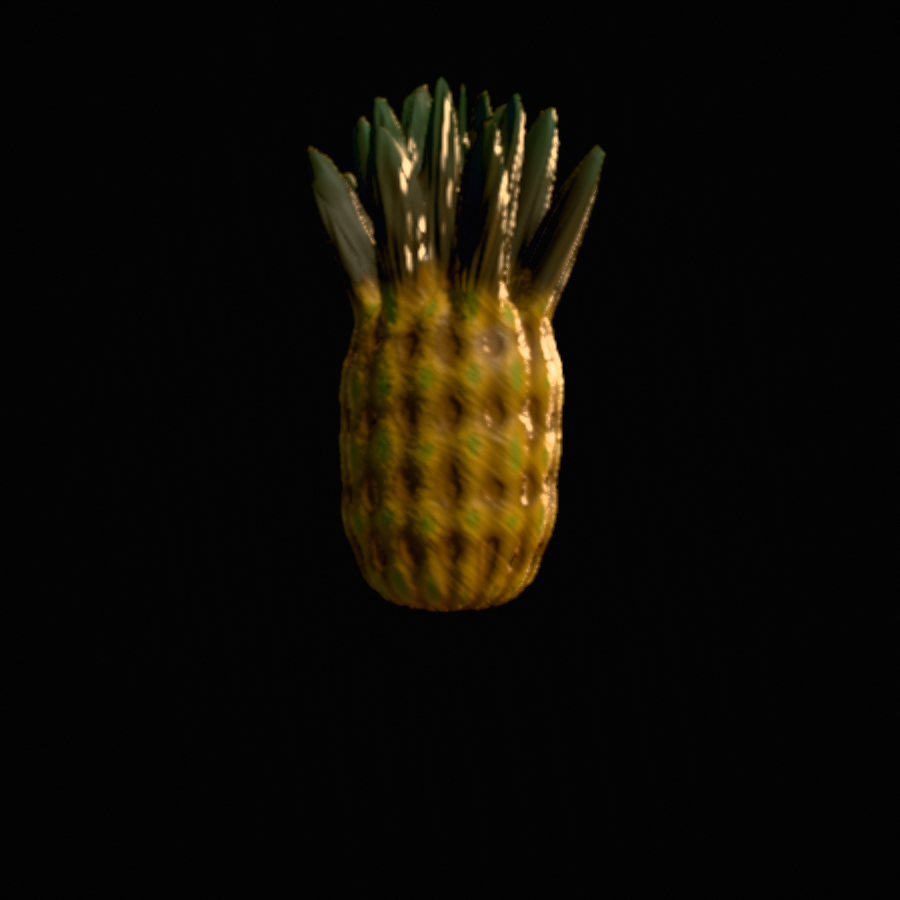
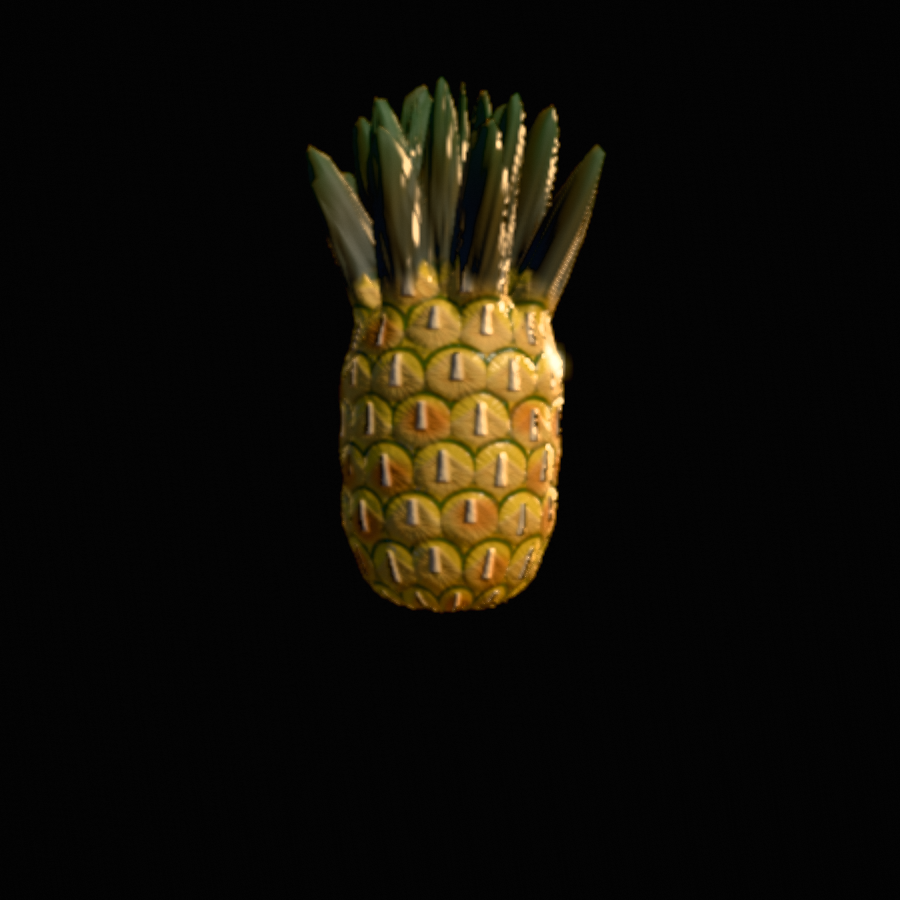
r47: the pineapple shell, rebuilt from the reference through a render-and-measure loop (#42)
The player asked for better pineapple fidelity with a reference photo.
Fifteen rounds (r47 → r47o), each a batch of three candidates rendered
through the new `tools/pineloop.mjs` (runtime uniforms, no rebuild) and
judged beside the reference at fruit and detail scale, with
`tools/pngstats.py` for hue/saturation/value.

**Where it landed.** Each fruitlet is an eye — a rounded disc with a
tight dark green ring, radial striations, and a green-to-gold gradient
to its centre — under a tan bract sheath rising to a pale dried thorn.
The row below's eyes are evaluated in the shader so they rise into each
cell's corners like scales; rows run on a parastichy spiral; per-cell
rust stains grow denser toward the base. Crown leaves get a per-material
tint, calmer ribs and a waxy bloom at the root.

**Two structural findings worth reading:**
- Rings must be composited *above* both eye interiors (r47k) —
overlapping eyes otherwise erase them, leaving green only in the gaps.
- The albedo ceiling (`capBudget`'s per-channel Reinhard shoulder)
compresses R harder than G, so every brighter gold came out *greener*
(r47o). The pineapple runs `capK: 1.12` and its colours are authored by
inverting the shoulder.

Shell measures hue 40.6° (reference 43°). Every other species is
untouched. drawprobe and fruitviews clean; pineapple corpus shots
refreshed; GRAPHICS.md updated.

Changed region(s): [[0.3422, 0.0933, 0.6533, 0.6844], [0.6222, 0.2489, 0.6533, 0.3111], [0.3422, 0.1556, 0.3733, 0.1867]]

diff --git a/src/fruit/species.js b/src/fruit/species.js
@@ -2192,13 +2192,21 @@ function skinMaterial(sp, body, o = {}) {
 
   m.colorNode = Fn(() => {
     const f = frame();
-    const alb = capBudget(body.albedo(f, u)).toVar();
+    // r47o `o.capK`: a per-material ceiling factor (skins have no floor, so
+    // 1 is the contract; the pineapple runs 1.12 — its yellow is the point of
+    // the fruit, and the cap squeezed R harder than G, turning every brighter
+    // gold GREENER instead of brighter)
+    const alb = capBudget(body.albedo(f, u), o.capK).toVar();
     const a = appendage();
     // per-blade value spread. `lon` is the across-blade coordinate (blades are
     // radial about +Y, so a blade occupies a narrow arc of longitude); the
     // second argument drifts with height so one blade is not a constant stripe.
     // ringN is angle-periodic, so there is no seam at +-PI on the crown either.
     const vary = ringN(f.lon, 11.0, a.y.mul(2.2)).toVar();
+    // r47c `o.leafTint`: a per-material multiplier on the foliage colour —
+    // the pineapple crown on the reference is a brighter, greyer green than
+    // plate-01's, and its blades are broad enough to want it
+    const tintV = o.leafTint ? vec3(o.leafTint[0], o.leafTint[1], o.leafTint[2]) : vec3(1.0, 1.0, 1.0);
     const leafC = (o.leafFresh
       // fresh: green from the root, no die-back straw at the tip
       ? mix(A_ROOT, A_FOLF, ss(1.030, 1.200, a.y)).mul(vary.mul(0.20).add(1.0))
@@ -2209,7 +2217,12 @@ function skinMaterial(sp, body, o = {}) {
     const woodC = mix(A_WUD, A_WTIP, a.sh.mul(a.sh))
       .mul(ringN(f.lon, 17.0, a.y.mul(9.0)).mul(0.22).add(1.0))
       .toVar();
-    alb.assign(mix(alb, leafC, a.leafy));
+    // r47e `o.leafBloom`: a waxy grey-white bloom over the lower blade, as
+    // on a pineapple crown's rosette — strongest at the root, gone by mid-blade
+    const bloomed = o.leafBloom
+      ? mix(leafC.mul(tintV), fromKeyLit(0.1100, 0.1250, 0.1050), ss(0.55, 0.05, a.bh).mul(o.leafBloom))
+      : leafC.mul(tintV);
+    alb.assign(mix(alb, bloomed, a.leafy));
     alb.assign(mix(alb, woodC, a.wood));
     return alb;
   })();
@@ -2230,7 +2243,7 @@ function skinMaterial(sp, body, o = {}) {
     // the appendage, which is the direction real leaf veins and wood fibre run.
     const app = max(a.leafy, a.wood).toVar();
     const rib = mix(ringN(f.lon, 26.0, a.y.mul(5.0)), ringN(f.lon, 15.0, a.y.mul(11.0)), a.wood);
-    const h = mix(body.relief(f, u), rib.mul(1.35).sub(a.bh.mul(0.30)), app);
+    const h = mix(body.relief(f, u), rib.mul(1.35 * (o.rib ?? 1.0)).sub(a.bh.mul(0.30)), app);
     return zsBump(normalView, positionView, h.mul(u.bump));
   })();
   // A leaf and a dead stem have no fruit wax on them. Every skin that carries a
@@ -3851,6 +3864,49 @@ def({
 });
 
 // ─────────────────────────────────────────────────────────────────────────────
+// r47o: the gold/eye colours are authored PRE-cap. capBudget's Reinhard
+// shoulder (k = 1.12 for this skin) compresses R far more than G, so a gold
+// written as (0.66, 0.335, 0.07) leaves the cap as (0.43, 0.335, 0.07) —
+// a golden yellow — where the same post-cap target authored naively came out
+// green. Invert the shoulder (see r47o) before changing these by eye.
+// r47c: the pineapple shell's tunables. Uniforms, so a tuning loop can set
+// them at runtime (window.__zsPine.set(name, value) in the harness) and the
+// shipped defaults below are what that loop settled on. Colours are linear.
+const PINE_DEFAULTS = {
+  rustMix: 0.850, rustBottom: 0.620, rustTop: 0.080, rustR: 0.600,
+  rustC: [0.2800, 0.1000, 0.0300], rimEdge: 0.500, rows: 2.600, skew: 0.420, sheathVein: 0.200,
+  blemMix: 0.080, sheathV: 0.600, creaseMix: 0.150, creaseH: 0.200, roughThorn: 0.450,
+  creaseW: 0.360, eyeY: 0.040, eyeR: 0.600, eyeAspect: 0.900, tipY: 0.440, bractW: 0.600,
+  bractCurve: 0.850, spread: 0.300, grain: 0.080, veinMix: 0.060, eyeMix: 0.950, eyeGrad: 1.000,
+  eyePow: 1.100, rimMix: 1.000, rimLow: -0.450, rimW: 0.131, bractMix: 0.600, bractOverEye: 0.700,
+  soft: 3.000, jit: 0.800, lipMix: 0.100, lipH: 0.150, roughGold: 0.340, roughEye: 0.360,
+  roughBract: 0.450, eyeH: 0.800, bractH: 0.250, thornH: 2.200, thornW: 0.050, thornLen: 0.678,
+  gold: [0.6600, 0.3350, 0.0700], goldGreen: [0.4000, 0.3300, 0.0800],
+  vein: [0.2400, 0.1400, 0.0500], eyeGreen: [0.3000, 0.3000, 0.0700],
+  eyeYellow: [1.1600, 0.3600, 0.0800], rim: [0.0393, 0.0751, 0.0113],
+  tan: [0.4600, 0.3200, 0.1500], thorn: [0.5600, 0.3800, 0.3000],
+  creaseC: [0.0500, 0.0650, 0.0180],
+};
+// fruitlets around the barrel — a JS constant (cellPt's wrap), not a uniform
+const PINE_AROUND = 12;
+let _pine = null;
+function pineTune() {
+  if (_pine) return _pine;
+  const u = {};
+  for (const [k, v] of Object.entries(PINE_DEFAULTS)) {
+    u[k] = Array.isArray(v) ? uniform(new THREE.Vector3(v[0], v[1], v[2])) : uniform(v);
+  }
+  _pine = u;
+  if (typeof window !== 'undefined') {
+    window.__zsPine = {
+      set(k, v) { const x = u[k]; if (!x) return false; if (Array.isArray(v)) x.value.set(v[0], v[1], v[2]); else x.value = v; return true; },
+      get: () => Object.fromEntries(Object.entries(u).map(([k, x]) => [k, x.value.isVector3 ? [x.value.x, x.value.y, x.value.z] : x.value])),
+      defaults: PINE_DEFAULTS,
+    };
+  }
+  return u;
+}
+
 // PINEAPPLE — hexagonal eyes on the shell, fibrous rayed flesh, hard pale core.
 // ─────────────────────────────────────────────────────────────────────────────
 
@@ -3869,41 +3925,159 @@ def({
   shape: { squash: 1.35, lumps: 0.045, freq: 6.5 },
 
   makeSkinMaterial() {
+    // r47c — THE FRUITLET, READ OFF THE REFERENCE AT FULL ZOOM. Two passes
+    // (hex plates, then soft cushions) both read as "warty" on the device,
+    // because both drew the fruitlet as a BUMP. It is not a bump. In the
+    // photo each cell is:
+    //   · a broad TAN PAPERY BRACT SHEATH covering the lower half of the cell,
+    //     spanning its full width, rising to a sharp pale thorn above the
+    //     centre — dry, fibrous, faintly veined;
+    //   · behind it the EYE: a green-yellow rounded fruitlet with fine radial
+    //     striations and a dark green rim along its upper edge, of which only
+    //     the upper crescent and shoulders show above the sheath;
+    //   · GOLD everywhere else. The whole shell is gold (reference hue median
+    //     43°, sat 0.67); green lives only in the eyes.
+    // Every colour and shape below is a UNIFORM (PINE), so tools/pineloop
+    // renders candidates without a rebuild; the defaults are the shipped
+    // values, baked from that loop.
+    const PINE = pineTune();
+    // one fruitlet's eye, from an offset (ox, oy) to that fruitlet's centre
+    const fruitlet = (ox, oy) => {
+      const ey = oy.sub(PINE.eyeY);
+      const ed = length(vec2(ox, ey.mul(PINE.eyeAspect))).toVar();
+      const eye = ss(PINE.eyeR, PINE.eyeR.sub(PINE.soft.mul(0.10)), ed).toVar();
+      // the ring's edges: `rimEdge` scales their softness (1 = the r47c widths)
+      const rim = ss(PINE.eyeR.add(PINE.rimEdge.mul(0.06)), PINE.eyeR.sub(PINE.rimEdge.mul(0.04)), ed)
+        .mul(ss(PINE.eyeR.sub(PINE.rimW), PINE.eyeR.sub(PINE.rimW).add(PINE.rimEdge.mul(0.10)), ed))
+        .mul(ss(PINE.rimLow, PINE.rimLow.add(0.22), ey)).toVar();   // fades out toward the sheath
+      const ang = atan(ey, ox);
+      const stria = sin(ang.mul(22.0)).mul(0.5).add(0.5).mul(ss(0.04, 0.16, ed)).toVar();
+      const core = ss(PINE.eyeR, 0.04, ed).toVar();               // 1 at the eye's centre
+      return { eye, rim, stria, core };
+    };
     const eyes = ({ P, lon }) => {
       const v = P.y;
-      const jit = ringN(lon, 3.0, v.mul(2.0)).mul(0.55).toVar();
-      const h1n = sin(lon.mul(8.0).add(v.mul(5.4)).add(jit));
-      const h2n = sin(lon.mul(8.0).sub(v.mul(5.4)).sub(jit));
-      const eye = h1n.mul(h2n).mul(0.5).add(0.5).toVar();
-      return {
-        eye,
-        plate: ss(0.18, 0.85, eye).toVar(),
-        seam: ss(0.30, 0.02, eye).toVar(),
-      };
+      const row = v.mul(PINE.rows).add(50.0).toVar();       // positive, for floor/mod
+      // rows offset by `skew` cells each: 0.5 = plain hex packing, ~0.38 = the
+      // parastichy spirals a real pineapple runs on (phyllotaxis, 8/13)
+      const shift = floor(row).mul(PINE.skew);
+      const p = vec2(lon.div(Math.PI * 2).add(0.5).mul(PINE_AROUND).add(shift), row).toVar();
+      const c = cellPt(p, 5.0, 1.0, PINE_AROUND, 0.44);
+      const ox = abs(c.off.x), oy = c.off.y;
+      const own = fruitlet(ox, oy);
+      // r47g — THE SCALES OVERLAP. The player, on the reference crop: "the
+      // bottom half has dark green too from the adjacent rings in the lower
+      // row — they overlap like scales." A fruitlet's eye is taller than its
+      // cell, so the row below's eyes rise into this cell's bottom corners.
+      // Evaluate the cell one row DOWN (its row is shifted −skew) and read
+      // its fruitlet at this point: off' = (off.x, off.y + 1).
+      const pb = vec2(p.x.sub(PINE.skew), p.y.sub(1.0)).toVar();
+      const cb = cellPt(pb, 5.0, 1.0, PINE_AROUND, 0.44);
+      const below = fruitlet(cb.off.x, cb.off.y.add(1.0));
+      // per-cell jitter: tip height and sheath width wander with the cell id
+      const j1 = c.id.sub(0.5).mul(PINE.jit), j2 = fract(c.id.mul(7.13)).sub(0.5).mul(PINE.jit);
+      const tipY = PINE.tipY.add(j1.mul(0.4));
+      const sw = PINE.soft;
+      // the bract sheath: a DIAMOND — wide at mid-height, drawn to the thorn
+      // above, and its lower edge rising toward the sides (sheathV) so the
+      // bottom corners of the cell belong to the row below's eyes. (r47f's
+      // full-width base at the cell edge was the visible seam between rows.)
+      const baseY = float(-0.5).add(ox.mul(PINE.sheathV));
+      const tri = oy.sub(baseY).div(tipY.sub(baseY)).clamp(0.0, 1.0);  // 0 base … 1 tip
+      const halfW = PINE.bractW.add(j2.mul(0.3)).mul(tri.oneMinus().pow(PINE.bractCurve)).add(0.012);
+      const inside = ss(sw.mul(0.035), sw.mul(-0.01), ox.sub(halfW))
+        .mul(ss(baseY.sub(sw.mul(0.03)), baseY.add(sw.mul(0.03)), oy))
+        .mul(ss(tipY.add(sw.mul(0.03)), tipY.sub(sw.mul(0.03)), oy)).toVar();
+      // the thorn: a narrow spike from the eye's centre up past the sheath
+      // tip, drawn to a point — the sheath's own apex, not a knob on it
+      const tTop = tipY.add(0.06), tBot = tTop.sub(PINE.thornLen);
+      const tu = oy.sub(tBot).div(tTop.sub(tBot)).clamp(0.0, 1.0);          // 0 base … 1 point
+      const tw = PINE.thornW.mul(tu.oneMinus().mul(0.85).add(0.15));
+      const thorn = ss(sw.mul(0.03), sw.mul(-0.005), ox.sub(tw)).mul(ss(tBot.sub(0.03), tBot.add(0.03), oy)).mul(ss(tTop.add(0.02), tTop.sub(0.02), oy)).toVar();
+      const lip = inside.mul(ss(0.0, sw.mul(0.05), ox.sub(halfW).abs())).oneMinus().mul(inside).toVar();
+      // the crease: a dark horizontal line from the thorn's base out to the
+      // cell's sides, where the sheath folds over the fruitlet (the player:
+      // "touching the top of the adjacent hexes from the lower row")
+      const crease = ss(0.045, 0.012, oy.sub(tBot).abs()).mul(ss(PINE.creaseW, PINE.creaseW.mul(0.5), ox)).toVar();
+      // r47l: RUST. Some cells carry a rich reddish-brown patch — scuffing,
+      // damage, ripening — more of them toward the base of the fruit. A
+      // per-cell coin flip against a chance that rises bottom-up, and inside
+      // a hit cell a soft blob offset from the centre by another hash,
+      // mottled by fbm so it is a stain, not a disc. This is what breaks the
+      // "perfect geometry" read of a tiled shell.
+      const t0 = v.mul(0.26).add(0.5).clamp(0.0, 1.0);
+      const pr = fract(c.id.mul(13.71).add(0.37));
+      const chance = mix(PINE.rustBottom, PINE.rustTop, t0);
+      const hit = ss(chance.add(0.06), chance.sub(0.06), pr).toVar();
+      const rx = fract(c.id.mul(5.17)).sub(0.5).mul(0.5), ry = fract(c.id.mul(9.31)).sub(0.5).mul(0.5);
+      const blob = ss(PINE.rustR, PINE.rustR.mul(0.3), length(vec2(c.off.x.sub(rx), oy.sub(ry).mul(1.2)))).toVar();
+      const rust = hit.mul(blob).toVar();
+      return { eye: own.eye, rim: own.rim, stria: own.stria, core: own.core, below,
+        bract: inside, thorn, lip, crease, rust, id: c.id, fade: cellFade(p).toVar(), v, p };
     };
+    const grain = (f, u, k) => fbm2(vec2(f.P.x.add(f.P.y), f.P.z.sub(f.P.y)).mul(k), 2, u.detail);
     return skinMaterial(this, {
       albedo: (f, u) => {
         const e = eyes(f);
-        // Case B. The grain tail below peaks at 1.14, so the plate colour's
-        // budget is 0.40/1.14 = 0.351: round 3's 0.42 was 20% over it even
-        // before the light was counted. 0.325 x 1.14 = 0.371 -> 0.601 linear.
-        const alb = mix(vec3(0.1250, 0.0640, 0.0155), vec3(0.3250, 0.2070, 0.0315), e.plate).toVar();
-        alb.mulAssign(fbm2(vec2(f.P.x.add(f.P.y), f.P.z.sub(f.P.y)).mul(10.0), 2, u.detail).mul(0.28).add(0.86));
-        // dry green bract tip at the centre of each plate
-        alb.assign(mix(alb, vec3(0.1400, 0.1950, 0.0360), ss(0.80, 0.99, e.eye).mul(0.75)));
-        return alb;
+        const t = e.v.mul(0.26).add(0.5).clamp(0.0, 1.0);
+        const spread = e.id.sub(0.5).mul(PINE.spread);
+        // gold ground, a touch greener toward the crown and per-cell
+        const gold = mix(PINE.gold, PINE.goldGreen, ss(0.3, 0.95, t).mul(0.6).add(spread).clamp(0.0, 1.0))
+          .mul(grain(f, u, 9.0).mul(PINE.grain).add(float(1.0).sub(PINE.grain.mul(0.5)))).toVar();
+        // faint brown veins across the gold
+        gold.assign(mix(gold, PINE.vein, rdg2(vec2(f.P.x.mul(6.0), f.P.y.mul(14.0)), 2).mul(PINE.veinMix)));
+        // the eye: green-yellow, yellow toward its centre, striated, dark rim above
+        // the eye grades from the rim's dark green through mid green to yellow
+        // at its centre (the photo's eyes are a green GRADIENT, not a flat disc)
+        const eyeCol = (q) => mix(PINE.eyeGreen, PINE.eyeYellow, q.core.pow(PINE.eyePow).mul(PINE.eyeGrad).add(q.stria.mul(0.25)).clamp(0.0, 1.0));
+        // the row below's eyes first (their tops rise into this cell), then our own
+        // r47k: BOTH interiors first, THEN both rings — with the eyes taller
+        // than their cells, this cell's interior used to paint over the ring
+        // of the eye below, so the dark green only survived in the gaps
+        // between circles ("small triangles or diamonds"). A ring is on top.
+        const alb = mix(gold, eyeCol(e.below), e.below.eye.mul(PINE.eyeMix)).toVar();
+        alb.assign(mix(alb, eyeCol(e), e.eye.mul(PINE.eyeMix)));
+        alb.assign(mix(alb, PINE.rim, max(e.below.rim, e.rim).mul(PINE.rimMix)));
+        // the sheath over the top: tan, drier and lighter at the lip and thorn
+        // dry, fibrous: fine ridge veins run up the sheath, darker brown
+        const tan = PINE.tan.mul(grain(f, u, 18.0).mul(0.18).add(0.91))
+          .mul(rdg2(vec2(f.P.x.mul(30.0).add(f.P.z.mul(30.0)), f.P.y.mul(9.0)), 2).mul(PINE.sheathVein).oneMinus()).toVar();
+        // the sheath is opaque where it lies over the eye (only the eye's upper
+        // crescent shows, as in the photo) and subtler over the gold
+        alb.assign(mix(alb, tan, e.bract.mul(mix(PINE.bractMix, PINE.bractOverEye, e.eye))));
+        alb.assign(mix(alb, PINE.creaseC, e.crease.mul(PINE.creaseMix)));
+        alb.assign(mix(alb, PINE.thorn, max(e.thorn, e.lip.mul(PINE.lipMix)).mul(0.9)));
+        // rust stains ON TOP of eye, flat and sheath alike (the sheath used to
+        // paint over them — the reference's brown patches sit on the bracts too)
+        const mott = fbm2(vec2(f.P.x.mul(7.0).add(f.P.z.mul(5.0)), f.P.y.mul(9.0)), 2, u.detail).mul(0.5).add(0.5);
+        alb.assign(mix(alb, PINE.rustC.mul(mott.mul(0.5).add(0.6)), e.rust.mul(PINE.rustMix).mul(mott.mul(0.6).add(0.55)).mul(e.thorn.oneMinus())));
+        // scuffs and blemishes: sparse low-frequency brown patches on the flats
+        const blem = ss(0.55, 0.85, fbm2(vec2(f.P.x.mul(2.2).add(f.P.z.mul(1.7)), f.P.y.mul(2.6)), 2, u.detail).mul(0.5).add(0.5)).mul(max(e.eye, e.below.eye).oneMinus()).toVar();
+        alb.assign(mix(alb, PINE.vein.mul(0.8), blem.mul(PINE.blemMix)));
+        return mix(mix(gold, PINE.tan, 0.35), alb, e.fade);
       },
-      rough: (f) => eyes(f).seam.mul(0.25).add(0.55),
+      rough: (f) => { const e = eyes(f); return mix(mix(PINE.roughGold, PINE.roughEye, max(e.eye, e.below.eye)).add(e.bract.mul(PINE.roughBract)).add(e.rust.mul(0.25)), PINE.roughThorn, e.thorn); },
       relief: (f, u) => {
         const e = eyes(f);
-        return e.plate.mul(1.4).sub(e.seam.mul(2.2))
-          .add(fbm2(vec2(f.P.x.add(f.P.y), f.P.z.sub(f.P.y)).mul(20.0), 2, u.detail).mul(0.5));
+        return max(e.eye, e.below.eye).mul(PINE.eyeH).sub(max(e.rim, e.below.rim).mul(0.2)).add(e.stria.mul(0.12))
+          .add(e.bract.mul(PINE.bractH)).add(e.lip.mul(PINE.lipH)).add(e.thorn.mul(PINE.thornH))
+          .sub(e.crease.mul(PINE.creaseH))
+          .mul(e.fade).add(grain(f, u, 20.0).mul(0.2));
       },
     }, {
-      bump: 0.0190,
+      bump: 0.0220,
+      // the crown: brighter grey-green, calmer ribs (the 26-per-turn rib ran
+      // as striping on the device)
+      leafTint: [1.30, 1.28, 1.22], rib: 0.6, leafBloom: 0.55, capK: 1.12,
+      // r47i: the shell GLINTS — a waxed rind under the key. Clearcoat and
+      // specular up (the player: "I want light to really glint off this")
       mat: {
-        roughness: 0.64, sheen: 0.35, sheenColor: C('#c8a45a'), sheenRoughness: 0.6,
-        clearcoat: 0.20, clearcoatRoughness: 0.5, specularIntensity: 0.5,
+        // (0.42 clearcoat at 0.32 roughness mirrored the stage's cool ambient
+        // as a blue sheen down the flank — the glint has to be the KEY, warm)
+        // r47j: specular and clearcoat back down — the player: "I was trying
+        // to fix albedo with specular"; the brightness has to be in the colour
+        roughness: 0.55, sheen: 0.30, sheenColor: C('#e8c860'), sheenRoughness: 0.5,
+        clearcoat: 0.10, clearcoatRoughness: 0.5, specularIntensity: 0.5,
       },
     });
   },

diff --git a/tools/pngstats.py b/tools/pngstats.py
@@ -1,0 +1,40 @@
+# pngstats.py — hue / saturation / value summary of a PNG's foreground pixels,
+# no dependencies. Used with tools/pineloop.mjs against the reference photo.
+#   python3 tools/pngstats.py <png> [y0 y1] [dark|white]   (y0,y1: row range as
+#   fractions; 'dark' skips the black void, 'white' skips a product-shot ground)
+import struct,zlib,sys,colorsys,statistics as st
+def readpng(p):
+    d=open(p,'rb').read(); pos=8; idat=b''
+    while pos<len(d):
+        l=struct.unpack('>I',d[pos:pos+4])[0]; t=d[pos+4:pos+8]; c=d[pos+8:pos+8+l]; pos+=12+l
+        if t==b'IHDR': w,h,bd,ct=struct.unpack('>IIBB',c[:10])
+        elif t==b'IDAT': idat+=c
+    raw=zlib.decompress(idat); bpp={2:3,6:4,0:1,4:2}[ct]; stride=w*bpp; rows=[]; prev=bytearray(stride); i=0
+    for y in range(h):
+        f=raw[i]; i+=1; line=bytearray(raw[i:i+stride]); i+=stride
+        for x in range(stride):
+            a=line[x-bpp] if x>=bpp else 0; b=prev[x]; c=prev[x-bpp] if x>=bpp else 0
+            if f==1: line[x]=(line[x]+a)&255
+            elif f==2: line[x]=(line[x]+b)&255
+            elif f==3: line[x]=(line[x]+(a+b)//2)&255
+            elif f==4:
+                p=a+b-c; pa=abs(p-a); pb=abs(p-b); pc=abs(p-c)
+                line[x]=(line[x]+(a if pa<=pb and pa<=pc else b if pb<=pc else c))&255
+        rows.append(bytes(line)); prev=line
+    return w,h,bpp,rows
+def stats(p, y0=0.0, y1=1.0, bg='dark', step=2):
+    w,h,bpp,rows=readpng(p); hs=[];ss=[];vs=[];lum=[]
+    for y in range(int(h*y0),int(h*y1),step):
+        r=rows[y]
+        for x in range(0,w,step):
+            px=r[x*bpp:x*bpp+bpp]; R,G,B=px[0],px[1],px[2]; A=px[3] if bpp==4 else 255
+            if A<200: continue
+            if bg=='dark' and R+G+B<60: continue
+            if bg=='white' and R>235 and G>235 and B>235: continue
+            hh,s,v=colorsys.rgb_to_hsv(R/255,G/255,B/255); hs.append(hh*360); ss.append(s); vs.append(v)
+    if not hs: return None
+    q=lambda a,f: sorted(a)[int(len(a)*f)]
+    return dict(px=len(hs), hue=round(st.median(hs),1), hue10=round(q(hs,.1),1), hue90=round(q(hs,.9),1), sat=round(st.median(ss),2), val=round(st.median(vs),2), val10=round(q(vs,.1),2), val90=round(q(vs,.9),2))
+if __name__=='__main__':
+    p=sys.argv[1]; y0=float(sys.argv[2]) if len(sys.argv)>2 else 0; y1=float(sys.argv[3]) if len(sys.argv)>3 else 1; bg=sys.argv[4] if len(sys.argv)>4 else 'dark'
+    print(p.split('/')[-1], stats(p,y0,y1,bg))

diff --git a/docs/GRAPHICS.md b/docs/GRAPHICS.md
@@ -105,6 +105,28 @@ units** and carves real relief at the seams. Rocks are a `noCut` species with
 a per-instance crack uniform (`_zsDamage`) — their per-instance materials are
 disposed on retirement.
 
+### The pineapple shell (r47)
+
+Rebuilt against a reference photo through a render-and-measure loop. Each
+fruitlet is an **eye** (a rounded disc with a dark green ring, radial
+striations, and a green-to-gold gradient to its centre) under a **bract
+sheath** (a tan diamond rising to a pale thorn); the row below's eyes are
+evaluated too, so they rise into each cell's corners like scales; rows run
+on a parastichy spiral; per-cell rust stains grow denser toward the base.
+Every colour and shape is a uniform (`PINE_DEFAULTS` / `window.__zsPine`):
+
+```sh
+node tools/pineloop.mjs --cands cands.json --out /tmp    # render candidates, no rebuild
+python3 tools/pngstats.py /tmp/pine-x.png 0.30 0.75 dark # shell hue / sat / value
+```
+
+Two things to know before tuning it by eye. The rings are composited
+**above** both eye interiors, or overlapping eyes erase them. And the gold is
+authored **pre-cap**: `capBudget`'s per-channel shoulder squeezes R harder
+than G, so a naive "brighter yellow" comes out greener; the pineapple runs
+`capK: 1.12` and its colours are written by inverting the shoulder (see the
+r47o note in species.js).
+
 ## Cutting (`src/slice/cutter.js`, `src/slice/slicer.js`)
 
 `cutGeometry(geom, plane, rindThickness)` splits a closed solid into two
